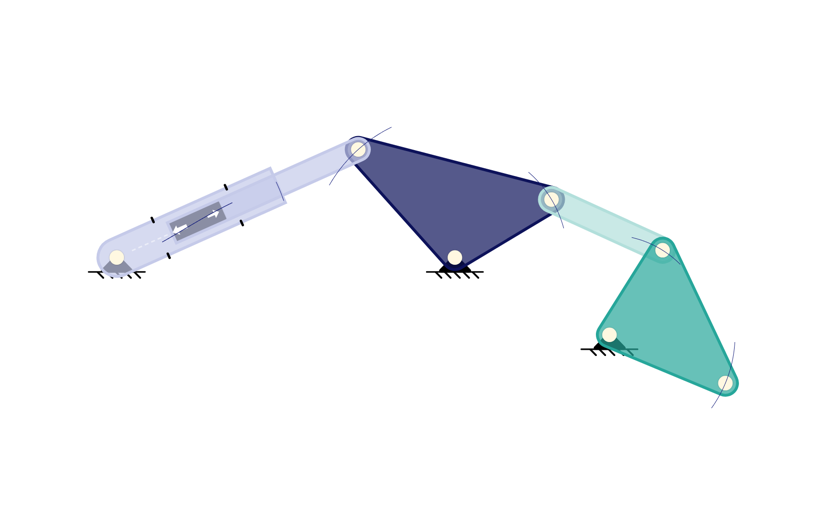
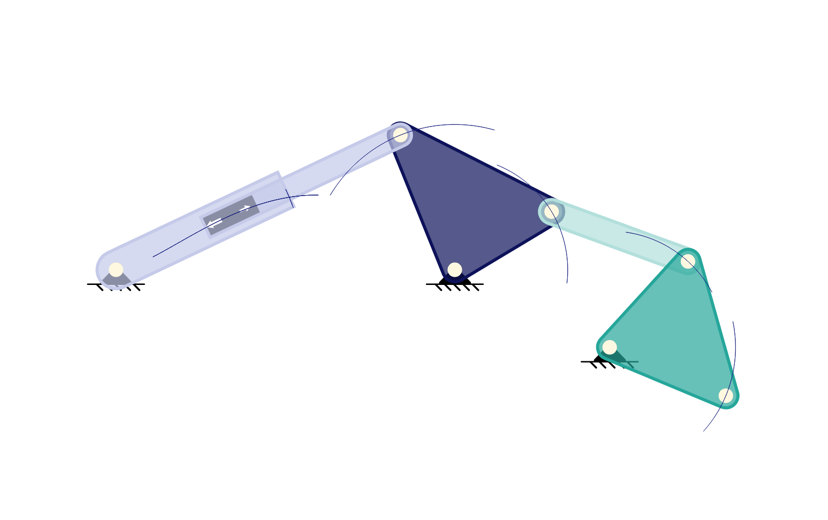
Re-tune the four new machines for the ram they actually have
How far a ram travels is not a property of the coordinates around it. It is set
by the model's rule for how much barrel the head costs, and when that rule
changed — the head now shrinks on a short ram instead of eating a flat 13 R —
every stroke in the library roughly doubled. The four machines were drawn
against the old rule and were left standing on two knife edges by the new one:

  - the backhoe's ram triangle flattened to 6 degrees at full retraction, all
    but collinear, and its bucket dyad came within 0.021 of a tangency, where
    which root the solver returns is decided by rounding;
  - the toggle press ran 8.6 degrees past its dead point and drove the slider
    through the singular depth, so the press closed and then opened again.

Three coordinates fix both. The bell crank's ear moves out so its ram is drawn
at 6.50 rather than 5.48, which keeps the triangle between 30 and 106 degrees;
the bucket's ear moves out so the link and the ear span 5.40 against a gap that
peaks at 4.44; and the toggle is drawn at 235 degrees rather than 246, which is
the number that bounds its extension. The scissor lift was already clear and is
untouched.

The specs pinned the old sweeps and so had gone red on the branch. They now pin
the new ones, and they pin the margins as well as the motion: the ram triangle's
angle, the toggle's distance from 270, and the scissor's distance from flat and
from upright. Those are what the next change to the ram's rule will break first,
[…]

Changed region(s): [[0.0906, 0.2154, 0.7548, 0.5846], [0.6944, 0.4308, 0.9058, 0.8]]

diff --git a/src/test-utils/verification/library-fixtures.ts b/src/test-utils/verification/library-fixtures.ts
@@ -130,11 +130,23 @@ export const JANSEN_BARS: readonly [string, string, number][] = [
  * end of a backhoe is a four-bar and not a lever.
  *
  * Coordinates are the drawn pose. The bell crank's ear sits 3 from its pivot
- * and 5.48 from the ram's mount, which puts the ram at mid-travel; its stops
- * then fall at 4.65 and 6.31, sweeping the bell crank through 34 degrees and
- * the bucket through 32. Nothing comes near a dyad's tangency: the link and the
- * bucket ear span 4.60 between them, against a gap that never opens past 3.76
- * and never closes below 2.39.
+ * and 6.50 from the ram's mount, which puts the ram at mid-travel; its stops
+ * then fall at 4.67 and 8.34, sweeping the bell crank through 75 degrees and
+ * the bucket through 54.
+ *
+ * The proportions are what keep both dyads clear of a tangency: the ear stays
+ * between 30 and 106 degrees off the line to the ram's mount, so the triangle
+ * that places it never flattens, and the link and the bucket ear span 5.40
+ * between them against a gap that never opens past 4.44 and never closes below
+ * 1.59.
+ *
+ * Both margins depend on how far the ram travels, and that is not a property of
+ * these coordinates — it is set by `cylinderBetween`, and through it by the
+ * model's own rule for how much barrel the head costs. When that rule last
+ * changed, every stroke here roughly doubled: this mechanism went to within
+ * 0.02 of a tangency at the bucket and flattened its ram triangle to 6 degrees.
+ * If it changes again, re-measure rather than assuming the sweeps quoted above
+ * still hold.
  */
 export const BUCKET = {
   /** Bell-crank pivot on the stick. */
@@ -142,13 +154,13 @@ export const BUCKET = {
   /** The ram's barrel mount, back along the stick. */
   mount: { x: -7, y: 0 },
   /** The bell crank's rod ear — the point the ram actually moves. */
-  ear: { x: -2, y: 2.236 },
+  ear: { x: -1.124, y: 2.781 },
   /** Its other arm, which pushes the link. */
   arm: { x: 2, y: 1.2 },
   /** The bucket's hinge at the end of the stick. */
   hinge: { x: 3.2, y: -1.6 },
   /** Where the link reaches the bucket, and the cutting edge. */
-  bucketEar: { x: 4.3, y: 0.15 },
+  bucketEar: { x: 4.818, y: 0.172 },
   tip: { x: 5.6, y: -2.6 },
 } as const;
 
@@ -205,8 +217,18 @@ export const TOGGLE = {
   link: 4,
   /** The ram's barrel mount, out to one side. */
   mount: { x: -8, y: 0 },
-  /** Knee angle at the drawn pose, measured from the pivot. */
-  kneeRad: (246 * Math.PI) / 180,
+  /**
+   * Knee angle at the drawn pose, measured from the pivot.
+   *
+   * This is the number that bounds the travel. The ram is drawn at mid-stroke
+   * like every other one here, so the span between the mounts fixes how much
+   * ram there is, and how much ram there is fixes how far past the drawn pose
+   * the knee can be pushed. Drawn much straighter than this and the extension
+   * carries the knee through the dead point at 270 and out the far side, where
+   * the press opens again — honest as motion, but a poor first look at what a
+   * toggle is for.
+   */
+  kneeRad: (235 * Math.PI) / 180,
 } as const;
 
 /**
@@ -219,13 +241,16 @@ export const TOGGLE = {
  * the force it can exert goes the other way. The press closes slowly and
  * enormously hard, which is the whole reason toggle presses exist.
  *
- * The mounts are placed so the ram's stops bracket that behaviour without
- * reaching it. The knee sweeps 225.0 to 267.7 degrees, where 270 is the dead
- * point, and the slider descends from -5.66 to -7.99 against a dead-point depth
- * of exactly -8: the last 2.3 degrees of knee travel are worth 6 thousandths of
- * slider travel. The press closes almost to the singularity and stops short of
- * it, which is both what the machine does and what keeps this a mechanism
- * rather than a fixture balanced on a knife edge.
+ * The mounts and the drawn knee angle are placed so the ram's stops bracket
+ * that behaviour without reaching it. The knee sweeps 205.6 to 262.1 degrees,
+ * where 270 is the dead point, and the slider descends from -3.45 to -7.93
+ * against a dead-point depth of exactly -8. The last five degrees of that
+ * 56-degree sweep are worth under 3% of the slider's travel, and the first half
+ * of the sweep is worth twice the second. The press closes almost to the
+ * singularity and stops short of it, which is both what the machine does and
+ * what keeps this a mechanism rather than a fixture balanced on a knife edge —
+ * drawn straighter, as it once was, the ram's own extension carried the knee
+ * 8.6 degrees past the dead point and the slider through its singular depth.
  */
 export function togglePressFixture(scale: number = 1): MechanismFixture {
   const at = (point: { x: number; y: number }) => ({ x: point.x * scale, y: point.y * scale });

diff --git a/src/tests/verification/excavator-bucket.spec.ts b/src/tests/verification/excavator-bucket.spec.ts
@@ -5,6 +5,7 @@ import { Joint } from '../../app/model/joint';
 import { buildMechanism } from '../../test-utils/verification/fixture';
 import { RATE_TOLERANCE, velocityAgreesWithPositions } from '../../test-utils/verification/rates';
 import { BUCKET, excavatorBucketFixture } from '../../test-utils/verification/library-fixtures';
+import { turningPoints } from '../../test-utils/verification/compare';
 import { sealedCylinders } from '../../app/model/cylinder';
 import { MODEL_SCALE } from '../../app/model/render-scale';
 import { SettingsService } from '../../app/services/settings.service';
@@ -133,28 +134,36 @@ describe('a backhoe bucket curled by its cylinder', () => {
     expect(samples[samples.length - 1].ram).toBeCloseTo(drawn.ram, 6);
   });
 
-  it('curls the bucket through 32 degrees, and only ever one way at a time', () => {
+  it('curls the bucket through 54 degrees, and only ever one way at a time', () => {
     const angles = samples.map((sample) => sample.bucket);
     const swept = Math.max(...angles) - Math.min(...angles);
-    expect(swept).toBeGreaterThan(32);
-    expect(swept).toBeLessThan(33);
+    expect(swept).toBeGreaterThan(54);
+    expect(swept).toBeLessThan(55);
 
     // The bucket follows the ram: two reversals in the drive, two in the
     // output, and no third one from a dyad changing its mind.
-    const reversals = angles
-      .slice(1)
-      .map((angle, i) => Math.sign(angle - angles[i]))
-      .filter((direction, i, all) => i > 0 && direction !== all[i - 1]).length;
-    expect(reversals).toBe(2);
+    //
+    // The deadband is a fifth of a degree rather than a rounding quantum
+    // because the sample at each of the ram's own stops overshoots the stop by
+    // about a tenth of a degree of bucket: the grid is anchored where the part
+    // was drawn rather than at a limit, so the last step into a stop is a whole
+    // one and lands slightly past it. Counting that as two more reversals would
+    // be counting the sampling, not the mechanism.
+    expect(turningPoints(angles, 0.2).length).toBe(2);
   });
 
-  it('never lets the link and the bucket ear reach a tangency', () => {
+  it('never lets either dyad reach a tangency', () => {
     // The one way this mechanism could quietly become a different one: the two
     // circles that place the bucket's ear meeting at a single point, where the
     // root the solver returns is decided by rounding.
     for (const sample of samples) {
-      expect(sample.link + sample.bucketEar - sample.armToHinge).toBeGreaterThan(0.8);
-      expect(sample.armToHinge - Math.abs(sample.link - sample.bucketEar)).toBeGreaterThan(1.9);
+      // The ram triangle flattens at 0 and at 180 degrees; it stays between 30
+      // and 106, which is where the ram's own stops leave it. Drawn as it once
+      // was, this reached 6 degrees.
+      expect(Math.abs(sample.crank)).toBeGreaterThan(25);
+      expect(Math.abs(sample.crank)).toBeLessThan(115);
+      expect(sample.link + sample.bucketEar - sample.armToHinge).toBeGreaterThan(0.9);
+      expect(sample.armToHinge - Math.abs(sample.link - sample.bucketEar)).toBeGreaterThan(0.9);
     }
   });
 
@@ -165,7 +174,7 @@ describe('a backhoe bucket curled by its cylinder', () => {
       expect(sample.tip.x).toBeGreaterThan(BUCKET.hinge.x);
     }
     const heights = samples.map((sample) => sample.tip.y);
-    expect(Math.max(...heights) - Math.min(...heights)).toBeGreaterThan(1.3);
+    expect(Math.max(...heights) - Math.min(...heights)).toBeGreaterThan(2);
   });
 
   it('moves every joint at the rate its own motion implies', () => {

diff --git a/src/app/component/MODALS/templates/template-linkages.ts b/src/app/component/MODALS/templates/template-linkages.ts
@@ -93,11 +93,11 @@ export const TEMPLATE_LINKAGES: Record<TemplateID, string> = {
   Jansen_Leg:
     '2P.3Qm,1E8.K,0.1011.MO,O,0,0,0.GA,A,3gO,0,0.KG,G,09Hm,01vu,0.GB,B,05tE,7ee,0.GC,C,0IGg,1-F,0.GD,D,06b8,0B7B,0.GE,E,0ETW,06sL,0.GF,F,0AYO,0MPj,0..YROA,OA,Fe,Fe,1rC,0,c5cae9,O,A,,.YRAB,AB,Fe,Fe,016R,3qK,303e9f,A,B,,.YRGBC,GBC,Fe,Fe,0B8Z,2ag,0d125a,G,B,C,,.YRAD,AD,Fe,Fe,01TO,05Zc,B2DFDB,A,D,,.YRGD,GD,Fe,Fe,07xS,06WY,26A69A,G,D,,.YRCE,CE,Fe,Fe,0GN5,02RZ,00695C,C,E,,.YRDEF,DEF,Fe,Fe,0AXh,0DT4,c5cae9,D,E,F,,...N_c',
   Backhoe_Bucket:
-    '2P.Fe,1E8.K,0.1011.KA,A,01jO,0,0.GB,B,0vJ,NJ,0.OC,C,01JL,Bf,0.GD,D,0VG,Yy,0.KG,G,0,0,0.GH,H,VG,Im,0.KJ,J,o0,0P0,0.GK,K,13C,2M,0.GT,T,1NW,0ee,0.pE,E,01JL,Bf,0,AB,A,B..YRAB,AB,Fe,Fe,01JL,Bf,c5cae9,A,B,,.YRCD,CD,Fe,Fe,0vJ,NJ,303e9f,C,D,,.YRDGH,DGH,Fe,Fe,0,Hv,0d125a,D,G,H,,.YRHK,HK,Fe,Fe,nE,AZ,B2DFDB,H,K,,.YRJKT,JKT,Fe,Fe,14F,0L6,26A69A,J,K,T,,.YPCE,CE,Fe,0,0,0,,C,E,,...N_z',
+    '2P.Fe,1E8.K,0.1011.KA,A,01jO,0,0.GB,B,0sb,Py,0.OC,C,018N,HX,0.GD,D,0Ha,hT,0.KG,G,0,0,0.GH,H,VG,Im,0.KJ,J,o0,0P0,0.GK,K,1BI,2i,0.GT,T,1NW,0ee,0.pE,E,018N,HX,0,AB,A,B..YRAB,AB,Fe,Fe,01H-,C_,c5cae9,A,B,,.YRCD,CD,Fe,Fe,0iz,UV,303e9f,C,D,,.YRDGH,DGH,Fe,Fe,4a,Kl,0d125a,D,G,H,,.YRHK,HK,Fe,Fe,rH,Ak,B2DFDB,H,K,,.YRJKT,JKT,Fe,Fe,16x,0K-,26A69A,J,K,T,,.YPCE,CE,Fe,0,0,0,,C,E,,...N_0',
   Toggle_Press:
-    '2P.Fe,1E8.K,0.1011.KA,A,01z0,0,0.GB,B,0wd,0c4,0.OC,C,01Rq,0J2,0.GD,D,0PR,0v6,0.KG,G,0,0,0.GR,R,0,01oC,0.pE,E,01Rq,0J2,0,AB,A,B.LF,F,0,01oC,OZ..YRAB,AB,Fe,Fe,01Rq,0J2,c5cae9,A,B,,.YRCD,CD,Fe,Fe,0wd,0c4,303e9f,C,D,,.YRGD,GD,Fe,Fe,0Cj,0SZ,0d125a,G,D,,.YRDR,DR,Fe,Fe,0Cj,01Lf,B2DFDB,D,R,,.YPCE,CE,Fe,0,0,0,,C,E,,.YPRF,RF,Fe,0,0,0,,R,F,,...N_R',
+    '2P.Fe,1E8.K,0.1011.KA,A,01z0,0,0.GB,B,017k,0Uc,0.OC,C,01P8,0Kc,0.GD,D,0Zs,0pD,0.KG,G,0,0,0.GR,R,0,01cP,0.pE,E,01P8,0Kc,0,AB,A,B.LF,F,0,01cP,OZ..YRAB,AB,Fe,Fe,01YN,0FJ,c5cae9,A,B,,.YRCD,CD,Fe,Fe,0_V,0Zv,303e9f,C,D,,.YRGD,GD,Fe,Fe,0Hx,0Pc,0d125a,G,D,,.YRDR,DR,Fe,Fe,0Hx,01Cp,B2DFDB,D,R,,.YPCE,CE,Fe,0,0,0,,C,E,,.YPRF,RF,Fe,0,0,0,,R,F,,...N_S',
   Scissor_Lift:
-    '2P.Fe,1E8.K,0.1011.KA,A,2SG,0,0.GB,B,1Z_,eB,0.OC,C,207,K6,0.GD,D,17q,yH,0.KG,G,0,0,0.GM,M,1Vm,1GM,0.GK,K,2-X,2Wj,0.GS,S,2-X,0,0.GT,T,0,2Wj,0.GU,U,3Un,2Wj,0.pE,E,207,K6,0,AB,A,B.LN,N,2-X,0,0.HP,P,2-X,2Wj,0,TU,T,U..YRAB,AB,Fe,Fe,207,K6,c5cae9,A,B,,.YRCD,CD,Fe,Fe,1Z_,eB,303e9f,C,D,,.YRGDMK,GDMK,Fe,Fe,1Pn,1BL,0d125a,G,D,M,K,,.YRSMT,SMT,Fe,Fe,1Vm,1GM,B2DFDB,S,M,T,,.YRTU,TU,Fe,Fe,1lO,2Wj,26A69A,T,U,,.YPCE,CE,Fe,0,0,0,,C,E,,.YPSN,SN,Fe,0,0,0,,S,N,,.YPKP,KP,Fe,0,0,0,,K,P,,...N_e',
+    '2P.Fe,1E8.K,0.1011.KA,A,2SG,0,0.GB,B,1fl,a3,0.OC,C,1wL,OD,0.GD,D,17q,yH,0.KG,G,0,0,0.GM,M,1Vm,1GM,0.GK,K,2-X,2Wj,0.GS,S,2-X,0,0.GT,T,0,2Wj,0.GU,U,3Un,2Wj,0.pE,E,1wL,OD,0,AB,A,B.LN,N,2-X,0,0.HP,P,2-X,2Wj,0,TU,T,U..YRAB,AB,Fe,Fe,230,I2,c5cae9,A,B,,.YRCD,CD,Fe,Fe,1X5,gF,303e9f,C,D,,.YRGDMK,GDMK,Fe,Fe,1Pn,1BL,0d125a,G,D,M,K,,.YRSMT,SMT,Fe,Fe,1Vm,1GM,B2DFDB,S,M,T,,.YRTU,TU,Fe,Fe,1lO,2Wj,26A69A,T,U,,.YPCE,CE,Fe,0,0,0,,C,E,,.YPSN,SN,Fe,0,0,0,,S,N,,.YPKP,KP,Fe,0,0,0,,K,P,,...N_e',
   Shaper_Quick_Return:
     '2P.Fe,1E8.K,0.1011.MA,A,0,0,0.GB,B,Fe,0,0.KC,C,0,0ku,0.GD,D,Oj,RF,0.GR,R,qW,si,0.HP,P,Fe,0,0,CD,C,D.LQ,Q,qW,si,0..YRAB,AB,Fe,Fe,7q,0,c5cae9,A,B,,.YRCD,CD,Fe,Fe,CN,09q,303e9f,C,D,,.YRDR,DR,Fe,Fe,cd,e_,0d125a,D,R,,.YPBP,BP,Fe,0,0,0,,B,P,,.YPRQ,RQ,Fe,0,0,0,,R,Q,,...N_H',
   // </generated>

diff --git a/src/tests/verification/scissor-lift.spec.ts b/src/tests/verification/scissor-lift.spec.ts
@@ -129,14 +129,27 @@ describe('a scissor lift raised by its ram', () => {
     }
   });
 
+  it('keeps the arms clear of both of their own stops', () => {
+    // Pinned as an angle, not inferred from the height: a scissor flat on its
+    // base and a scissor stood upright are both singular — the first because
+    // the foot's circle meets the rail tangentially, the second because the
+    // arms have nowhere further to go — and the ram's travel is what decides
+    // how near either the mechanism comes. That travel is set by the model's
+    // own rule for how much barrel a ram's head costs, so it moves when that
+    // rule moves, and the margin has to be asserted rather than assumed.
+    const arms = samples.map((sample) => sample.arm);
+    expect(Math.min(...arms)).toBeGreaterThan(15);
+    expect(Math.max(...arms)).toBeLessThan(70);
+  });
+
   it('lifts, and draws the feet in as it does', () => {
     const heights = samples.map((sample) => sample.height);
     const feet = samples.map((sample) => sample.foot);
-    expect(Math.min(...heights)).toBeGreaterThan(7);
-    expect(Math.max(...heights)).toBeGreaterThan(12.5);
+    expect(Math.min(...heights)).toBeGreaterThan(5);
+    expect(Math.max(...heights)).toBeGreaterThan(13);
     // Rising and closing are the same motion: the span the arms stand on is
     // what the height is bought with.
-    expect(Math.max(...feet) - Math.min(...feet)).toBeGreaterThan(4);
+    expect(Math.max(...feet) - Math.min(...feet)).toBeGreaterThan(6);
     samples.forEach((sample) => {
       expect(sample.height).toBeCloseTo(2 * SCISSOR.half * Math.sin(sample.arm / DEG), 2);
       expect(sample.foot).toBeCloseTo(2 * SCISSOR.half * Math.cos(sample.arm / DEG), 2);

diff --git a/src/tests/verification/shaper-quick-return.spec.ts b/src/tests/verification/shaper-quick-return.spec.ts
@@ -5,6 +5,7 @@ import { Joint } from '../../app/model/joint';
 import { buildMechanism } from '../../test-utils/verification/fixture';
 import { RATE_TOLERANCE, velocityAgreesWithPositions } from '../../test-utils/verification/rates';
 import { SHAPER, shaperQuickReturnFixture } from '../../test-utils/verification/library-fixtures';
+import { turningPoints } from '../../test-utils/verification/compare';
 
 // A shaper's drive, ram included: a crank pin riding in a slot cut into a
 // rocking lever, and the lever pushing a block along a fixed guide.
@@ -19,29 +20,6 @@ import { SHAPER, shaperQuickReturnFixture } from '../../test-utils/verification/
 // quick return follows from where those two poses fall on the revolution.
 
 const DEG = 180 / Math.PI;
-
-/**
- * Where a sampled path turns round, ignoring wobble below `noise`.
- *
- * Joint positions are rounded, so a smooth extremum is a run of samples that
- * differ in the last digit and a plain sign-change count reads three reversals
- * in a path that has two. Stepping from the last confirmed point rather than
- * from the previous sample takes the rounding out.
- */
-function turningPoints(values: number[], noise: number): number[] {
-  const turns: number[] = [];
-  let direction = 0;
-  let anchor = 0;
-  for (let i = 1; i < values.length; i++) {
-    const step = values[i] - values[anchor];
-    if (Math.abs(step) < noise) continue;
-    const now = Math.sign(step);
-    if (direction !== 0 && now !== direction) turns.push(anchor);
-    direction = now;
-    anchor = i;
-  }
-  return turns;
-}
 
 /** The rounding the solver leaves on a coordinate, with room to spare. */
 const NOISE = 1e-3;

diff --git a/src/tests/verification/toggle-press.spec.ts b/src/tests/verification/toggle-press.spec.ts
@@ -110,7 +110,8 @@ describe('a toggle press closed by a hydraulic ram', () => {
     // ram's stops are placed so it never gets there -- and never quite reaches
     // the singular depth either.
     const knees = samples.map((sample) => sample.knee);
-    expect(Math.min(...knees)).toBeGreaterThan(224);
+    expect(Math.min(...knees)).toBeGreaterThan(200);
+    expect(Math.max(...knees)).toBeLessThan(265);
     expect(Math.max(...knees)).toBeLessThan(270);
     for (const sample of samples) {
       expect(sample.slider.y).toBeGreaterThan(DEAD_POINT_DEPTH);
@@ -143,11 +144,12 @@ describe('a toggle press closed by a hydraulic ram', () => {
 
     const first = depthAt(open) - depthAt(middle);
     const second = depthAt(middle) - depthAt(shut);
-    expect(first).toBeGreaterThan(2 * second);
+    expect(first).toBeGreaterThan(1.8 * second);
 
     // And the last five degrees, which is where a press is actually working,
-    // are worth almost nothing at all in travel.
-    expect(depthAt(shut - 5) - depthAt(shut)).toBeLessThan(0.1);
+    // are worth a few per cent of the travel and nearly all of the force.
+    const travel = depthAt(open) - depthAt(shut);
+    expect(depthAt(shut - 5) - depthAt(shut)).toBeLessThan(0.05 * travel);
   });
 
   it('moves every joint at the rate its own motion implies', () => {

diff --git a/src/test-utils/verification/compare.ts b/src/test-utils/verification/compare.ts
@@ -189,3 +189,26 @@ export function alignToDataset(
     expectedDirections
   );
 }
+
+/**
+ * Where a sampled path turns round, ignoring wobble below `noise`.
+ *
+ * Joint positions are rounded, so a smooth extremum is a run of samples that
+ * differ in the last digit and a plain sign-change count reads three reversals
+ * in a path that has two. Stepping from the last confirmed point rather than
+ * from the previous sample takes the rounding out.
+ */
+export function turningPoints(values: number[], noise: number): number[] {
+  const turns: number[] = [];
+  let direction = 0;
+  let anchor = 0;
+  for (let i = 1; i < values.length; i++) {
+    const step = values[i] - values[anchor];
+    if (Math.abs(step) < noise) continue;
+    const now = Math.sign(step);
+    if (direction !== 0 && now !== direction) turns.push(anchor);
+    direction = now;
+    anchor = i;
+  }
+  return turns;
+}

diff --git a/docs/fixture-urls.md b/docs/fixture-urls.md
@@ -23,6 +23,10 @@ PMKS_FIXTURE_BASE_URL=https://deploy-preview-227--pmksprod.netlify.app npm run f
 | [Cylinder-driven boom](https://app.pmksplus.com/?2P.Fe,1E8.K,0.1011.KO,O,0,0,0.GC,C,0,_W,0.KG,G,ku,0,0.GN,N,Ju,Z-,0.OP,P,R0,QX,0.pS,S,R0,QX,0,GN,G,N..YROC,OC,Fe,Fe,0,VG,c5cae9,O,C,,.YRGN,GN,Fe,Fe,XO,I0,303e9f,G,N,,.YRPC,PC,Fe,Fe,DW,iW,0d125a,P,C,,.YPPS,PS,Fe,0,0,0,,P,S,,...N_f) | Gate 5: the cylinder is the drive, and the boom follows the law of cosines | yes | yes | `driven-cylinder.spec.ts` |
 | [Cylinder-driven gripper](https://app.pmksplus.com/?2P.Fe,1E8.K,0.1011.KA,A,019C,Bh,0.GB,B,01H,Bg,0.OC,C,0Qb,Bg,0.GD,D,jM,Bf,0.GG,G,13N,ky,0.GH,H,20s,ky,0.GI,I,13N,0Fp,0.GJ,J,20s,0Fp,0.KK,K,0,2NW,0.KL,L,1Q,01pB,0.GM,M,K,1SF,0.KO,O,1bt,2Q6,0.KP,P,1eQ,02Tv,0.GQ,Q,1cO,1QQ,0.GS,S,3e3,13W,0.GT,T,16,0tr,0.GV,V,1dc,0w4,0.GX,X,3e3,0Yl,0.pE,E,0Qb,Bg,0,AB,A,B.HN,N,K,1SF,0,KL,K,L.HR,R,1cO,1QQ,0,OP,O,P.HU,U,16,0tr,0,KL,K,L.HW,W,1dc,0w4,0,OP,O,P..YRAB,AB,Fe,Fe,0bE,Bg,c5cae9,A,B,,.YRCD,CD,Fe,Fe,9O,Bg,303e9f,C,D,,.YRDGHIJ,DGHIJ,Fe,Fe,1NZ,Eo,0d125a,D,G,H,I,J,,.YRKL,KL,Fe,Fe,j,IA,B2DFDB,K,L,,.YRGM,GM,Fe,Fe,Xr,15c,26A69A,G,M,,.YROP,OP,Fe,Fe,1d9,01w,00695C,O,P,,.YRHQ,HQ,Fe,Fe,1pd,14h,c5cae9,H,Q,,.YRMQS,MQS,Fe,Fe,1lb,1JO,303e9f,M,Q,S,,.YRIT,IT,Fe,Fe,YF,0Zq,0d125a,I,T,,.YRJV,JV,Fe,Fe,1qE,0ax,B2DFDB,J,V,,.YRTVX,TVX,Fe,Fe,1mG,0nZ,26A69A,T,V,X,,.YPCE,CE,Fe,0,0,0,,C,E,,.YPMN,MN,Fe,0,0,0,,M,N,,.YPQR,QR,Fe,0,0,0,,Q,R,,.YPTU,TU,Fe,0,0,0,,T,U,,.YPVW,VW,Fe,0,0,0,,V,W,,...N_c) | §2.7a: no chain of dyads solves this — the plate and both arms settle together | yes | yes | `gripper.spec.ts, anchored-bar-mobility.spec.ts` |
 | [Gripper the cylinder closes](https://app.pmksplus.com/?2P.Fe,1E8.K,0.1011.KA,A,02SG,ku,0.GB,B,0185,uK,0.OC,C,019F,uC,0.GD,D,Ay,11e,0.KG,G,_W,ku,0.GH,H,1HG,S8,0.GI,I,2hu,VG,0.KJ,J,_W,0ku,0.GK,K,hm,0S8,0.GL,L,2hu,0VG,0.pE,E,019F,uC,0,AB,A,B..YRAB,AB,Fe,Fe,01oB,pc,c5cae9,A,B,,.YRCD,CD,Fe,Fe,0V9,yw,303e9f,C,D,,.YRDGHI,DGHI,Fe,Fe,1Hf,g_,0d125a,D,G,H,I,,.YRHK,HK,Fe,Fe,_W,0,B2DFDB,H,K,,.YRJKL,JKL,Fe,Fe,1Sj,0ZR,26A69A,J,K,L,,.YPCE,CE,Fe,0,0,0,,C,E,,...N_N) | Counter-rotating jaw levers: extending the cylinder pinches them shut | yes | yes | `pinching-gripper.spec.ts` |
+| [Backhoe bucket](https://app.pmksplus.com/?2P.Fe,1E8.K,0.1011.KA,A,01jO,0,0.GB,B,0sb,Py,0.OC,C,018N,HX,0.GD,D,0Ha,hT,0.KG,G,0,0,0.GH,H,VG,Im,0.KJ,J,o0,0P0,0.GK,K,1BI,2i,0.GT,T,1NW,0ee,0.pE,E,018N,HX,0,AB,A,B..YRAB,AB,Fe,Fe,01H-,C_,c5cae9,A,B,,.YRCD,CD,Fe,Fe,0iz,UV,303e9f,C,D,,.YRDGH,DGH,Fe,Fe,4a,Kl,0d125a,D,G,H,,.YRHK,HK,Fe,Fe,rH,Ak,B2DFDB,H,K,,.YRJKT,JKT,Fe,Fe,16x,0K-,26A69A,J,K,T,,.YPCE,CE,Fe,0,0,0,,C,E,,...N_0) | A driven ram feeding an ordinary four-bar: bell crank, link, and the bucket curls | yes | yes | `excavator-bucket.spec.ts` |
+| [Toggle press](https://app.pmksplus.com/?2P.Fe,1E8.K,0.1011.KA,A,01z0,0,0.GB,B,017k,0Uc,0.OC,C,01P8,0Kc,0.GD,D,0Zs,0pD,0.KG,G,0,0,0.GR,R,0,01cP,0.pE,E,01P8,0Kc,0,AB,A,B.LF,F,0,01cP,OZ..YRAB,AB,Fe,Fe,01YN,0FJ,c5cae9,A,B,,.YRCD,CD,Fe,Fe,0_V,0Zv,303e9f,C,D,,.YRGD,GD,Fe,Fe,0Hx,0Pc,0d125a,G,D,,.YRDR,DR,Fe,Fe,0Hx,01Cp,B2DFDB,D,R,,.YPCE,CE,Fe,0,0,0,,C,E,,.YPRF,RF,Fe,0,0,0,,R,F,,...N_S) | A ram closing a toggle onto a block: travel traded for force as it approaches straight | yes | yes | `toggle-press.spec.ts` |
+| [Scissor lift](https://app.pmksplus.com/?2P.Fe,1E8.K,0.1011.KA,A,2SG,0,0.GB,B,1fl,a3,0.OC,C,1wL,OD,0.GD,D,17q,yH,0.KG,G,0,0,0.GM,M,1Vm,1GM,0.GK,K,2-X,2Wj,0.GS,S,2-X,0,0.GT,T,0,2Wj,0.GU,U,3Un,2Wj,0.pE,E,1wL,OD,0,AB,A,B.LN,N,2-X,0,0.HP,P,2-X,2Wj,0,TU,T,U..YRAB,AB,Fe,Fe,230,I2,c5cae9,A,B,,.YRCD,CD,Fe,Fe,1X5,gF,303e9f,C,D,,.YRGDMK,GDMK,Fe,Fe,1Pn,1BL,0d125a,G,D,M,K,,.YRSMT,SMT,Fe,Fe,1Vm,1GM,B2DFDB,S,M,T,,.YRTU,TU,Fe,Fe,1lO,2Wj,26A69A,T,U,,.YPCE,CE,Fe,0,0,0,,C,E,,.YPSN,SN,Fe,0,0,0,,S,N,,.YPKP,KP,Fe,0,0,0,,K,P,,...N_e) | Ram, supporting block and a slot in the moving platform — all three parts, three jobs | yes | yes | `scissor-lift.spec.ts` |
+| [Shaper's quick-return drive](https://app.pmksplus.com/?2P.Fe,1E8.K,0.1011.MA,A,0,0,0.GB,B,Fe,0,0.KC,C,0,0ku,0.GD,D,Oj,RF,0.GR,R,qW,si,0.HP,P,Fe,0,0,CD,C,D.LQ,Q,qW,si,0..YRAB,AB,Fe,Fe,7q,0,c5cae9,A,B,,.YRCD,CD,Fe,Fe,CN,09q,303e9f,C,D,,.YRDR,DR,Fe,Fe,cd,e_,0d125a,D,R,,.YPBP,BP,Fe,0,0,0,,B,P,,.YPRQ,RQ,Fe,0,0,0,,R,Q,,...N_H) | A floating slot handing off to a grounded one: the ram cuts slow and returns fast | yes | — | `shaper-quick-return.spec.ts` |
 | [Slider-crank whose rod comes square to the guide](https://app.pmksplus.com/?2P.Fe,1E8.K,0.1011.MA,A,0,VG,0.GB,B,Fe,VG,0.GC,C,oa,0,0.LP,P,oa,0,0..YRAB,AB,Fe,Fe,7q,VG,c5cae9,A,B,,.YRBC,BC,Fe,Fe,X6,Fe,303e9f,B,C,,.YPCP,CP,Fe,0,0,0,,C,P,,...N_d) | The slot tangent to the rod circle: the two roots meet and trade places | — | — | `square-rod-tangency.spec.ts` |
 | [MotionGen gripper](https://app.pmksplus.com/?2P.Fe,1E8.K,0.1011.GA,A,0U5,01,0.GB,B,0Hj,Fj,0.GC,C,0Hj,0FZ,0.GD,D,DZ,Fj,0.GE,E,DZ,0FZ,0.GF,F,0V6,X9,0.GG,G,A,X9,0.GH,H,0V6,0X0,0.GI,I,A,0X0,0.GJ,J,_d,0Bn,0.GK,K,_o,GS,0.NP,P,0U5,01,0.LQ,Q,0V6,X9,OZ.LR,R,A,X9,OZ.LS,S,0V6,0X0,OZ.LT,T,A,0X0,OZ..YRABCDE,ABCDE,Fe,Fe,07i,4,c5cae9,A,B,C,D,E,,.YRBF,BF,Fe,Fe,0OQ,OR,303e9f,B,F,,.YRDG,DG,Fe,Fe,6s,OR,0d125a,D,G,,.YRCH,CH,Fe,Fe,0OQ,0OH,B2DFDB,C,H,,.YREI,EI,Fe,Fe,6s,0OH,26A69A,E,I,,.YRHIJ,HIJ,Fe,Fe,Aa,0Px,00695C,H,I,J,,.YRFGK,FGK,Fe,Fe,Ae,Rb,c5cae9,F,G,K,,.YPAP,AP,Fe,0,0,0,,A,P,,.YPFQ,FQ,Fe,0,0,0,,F,Q,,.YPGR,GR,Fe,0,0,0,,G,R,,.YPHS,HS,Fe,0,0,0,,H,S,,.YPIT,IT,Fe,0,0,0,,I,T,,...N_3) | A second engine's mechanism, rebuilt: over-constrained, so PMKS+ reports DOF 0 and refuses it | — | — | `motiongen-gripper.spec.ts` |
 | [Gripper with the redundancy removed](https://app.pmksplus.com/?2P.Fe,1E8.K,0.1011.GA,A,0U5,0,0.GM,M,DZ,0,0.GB,B,0Hj,Fj,0.GC,C,0Hj,0FZ,0.KF,F,0V6,X9,0.GG,G,A,X9,0.GK,K,_o,GS,0.KH,H,0V6,0X0,0.GI,I,A,0X0,0.GJ,J,_d,0Bn,0.NP,P,0U5,0,0.LN,N,DZ,0,0..YRAMBC,AMBC,Fe,Fe,0C-,2,c5cae9,A,M,B,C,,.YRBG,BG,Fe,Fe,08o,OR,303e9f,B,G,,.YRCI,CI,Fe,Fe,08o,0OH,0d125a,C,I,,.YRFGK,FGK,Fe,Fe,Ae,Rb,B2DFDB,F,G,K,,.YRHIJ,HIJ,Fe,Fe,Aa,0Px,26A69A,H,I,J,,.YPAP,AP,Fe,0,0,0,,A,P,,.YPMN,MN,Fe,0,0,0,,M,N,,...N_j) | The same gripper, jaws pivoting instead of railed: DOF 1, and it runs | — | — | `pivoting-gripper.spec.ts` |
